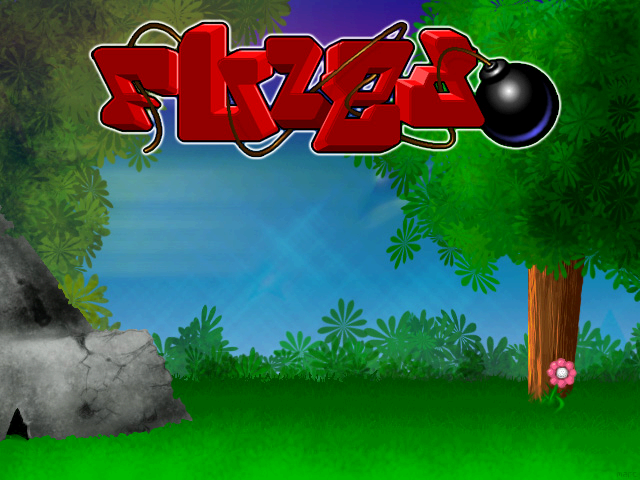
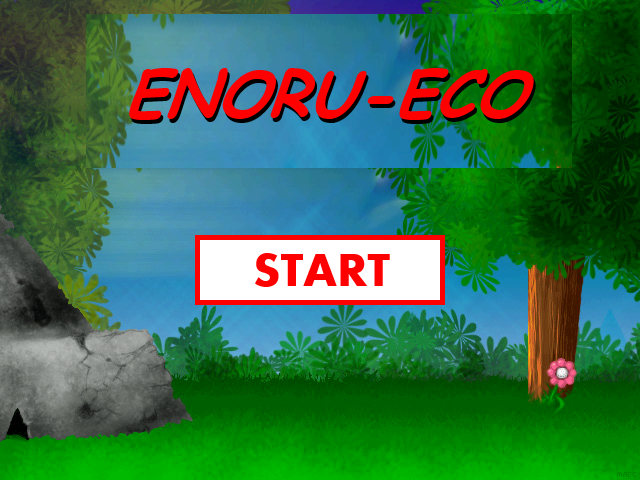
Added a button to the title screen.

Changed region(s): [[0.125, 0.0312, 0.9062, 0.375], [0.2812, 0.4688, 0.7188, 0.6562]]

diff --git a/game/js/main.js b/game/js/main.js
@@ -141,7 +141,8 @@ game.TitleScreen = me.ScreenObject.extend({
                 //var mousePos = me.input.globalToLocal(me.input.mouse.pos);
                 var mousePos = me.input.mouse.pos;
                 console.log(mousePos);
-                if(mousePos.x < 20 && mousePos.y < 20) {
+                if(mousePos.x > 195 && mousePos.y > 235
+                    && mousePos.x < 445 && mousePos.y < 305) {
                     me.state.change(me.state.PLAY);
                 }
             }
